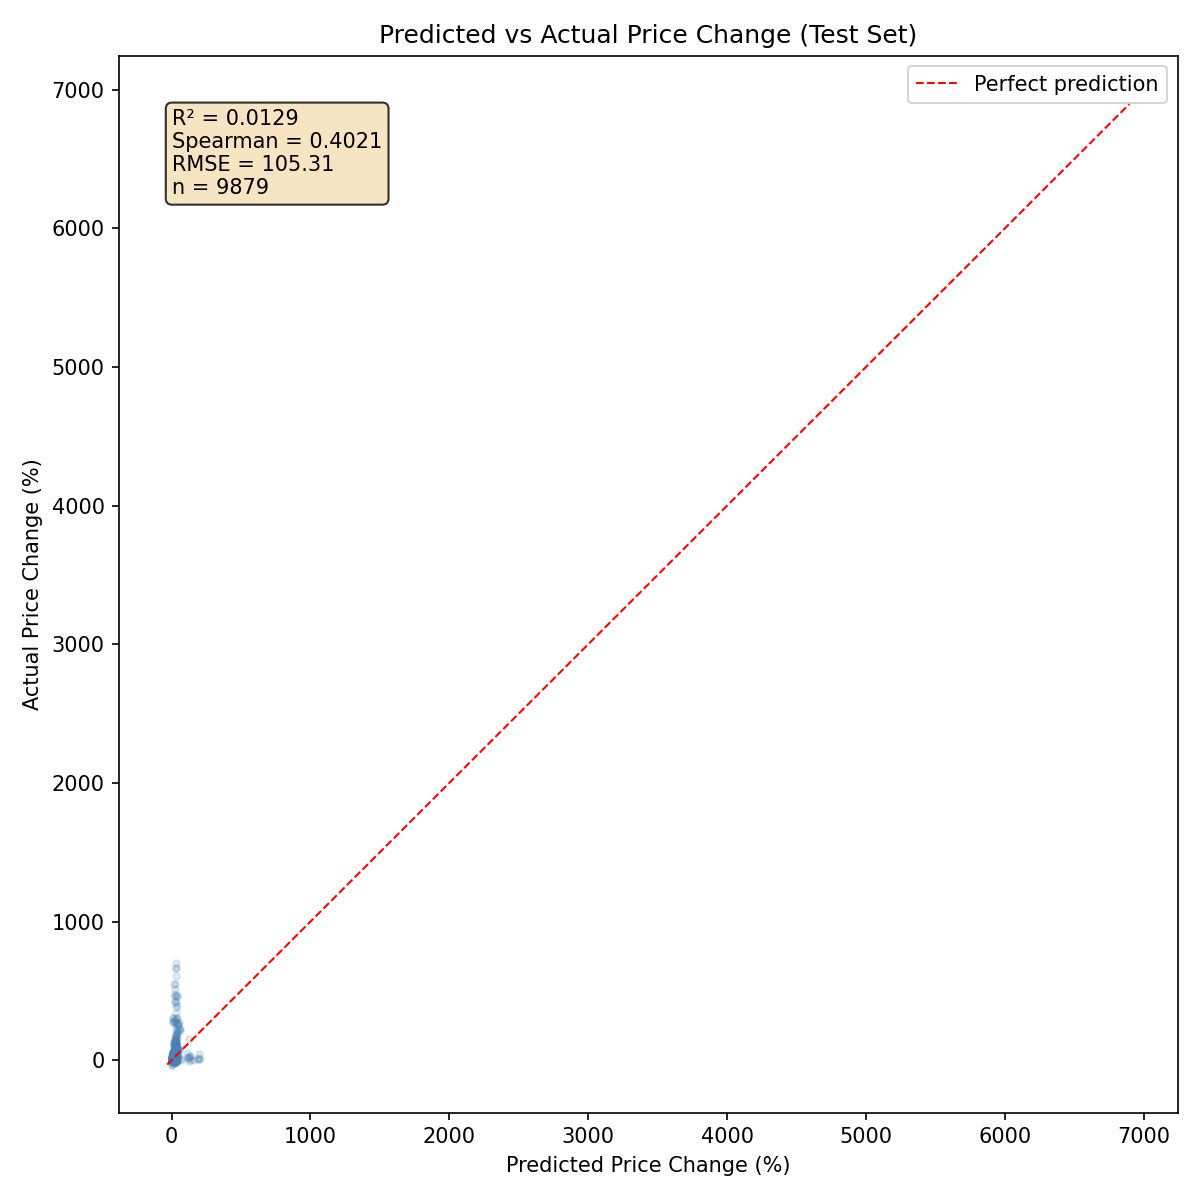
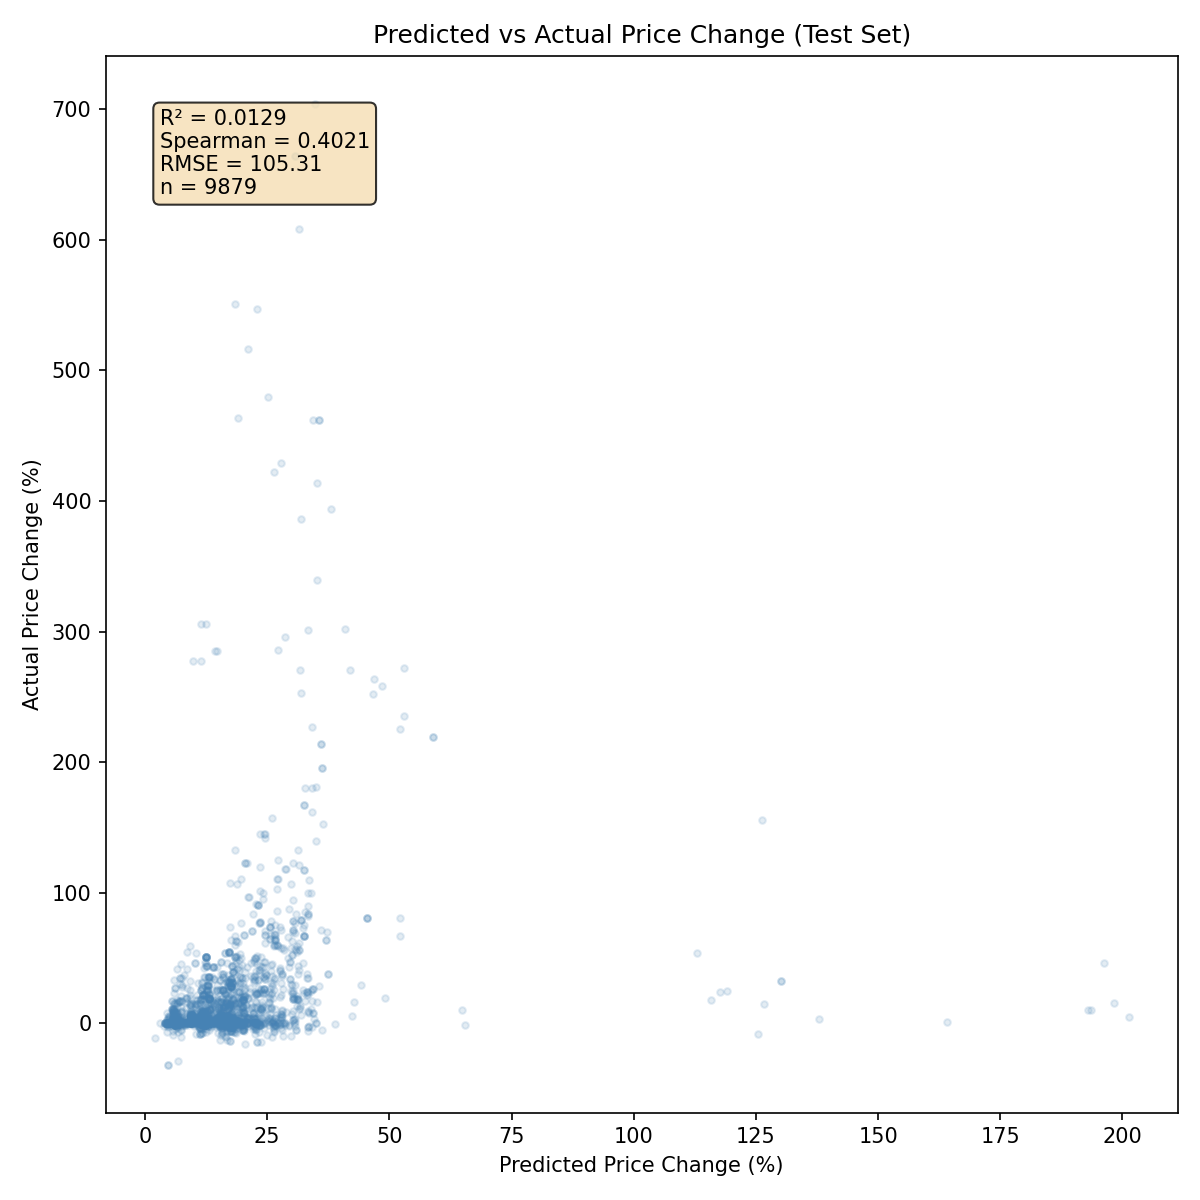
f

diff --git a/visualization/generate_eda_plots.py b/visualization/generate_eda_plots.py
@@ -80,34 +80,12 @@ def plot_price_trajectories() -> None:
 
         ax.plot(dates, prices, color='steelblue', linewidth=1.5)
 
-        # Get tournament dates for this card
-        cur.execute("""
-            SELECT DISTINCT t.event_date
-            FROM tournaments t
-            JOIN deck_profiles dp ON dp.tournament_id = t.id
-            JOIN LATERAL jsonb_array_elements_text(dp.main_deck::jsonb) AS card_id ON true
-            JOIN cards c ON c.id = card_id::int
-            WHERE c.name = %s AND t.format = 'TCG' AND t.player_count > 0
-            ORDER BY t.event_date
-        """, (card_name,))
-        tournament_dates = [r[0] for r in cur.fetchall()]
-
-        # Draw vertical lines for tournament appearances
-        for td in tournament_dates:
-            if dates[0] <= td <= dates[-1]:
-                ax.axvline(td, color='red', alpha=0.3, linewidth=0.8)
-
         # Label
         ax.set_title(f"{card_name} ({set_code}) - {description}")
         ax.set_ylabel("Market Price ($)")
         ax.xaxis.set_major_formatter(mdates.DateFormatter('%b %Y'))
         ax.xaxis.set_major_locator(mdates.MonthLocator(interval=2))
         plt.setp(ax.xaxis.get_majorticklabels(), rotation=45)
-
-        # Add legend for first plot only
-        if idx == 0:
-            ax.axvline(dates[0], color='red', alpha=0.3, linewidth=0.8, label='Tournament appearance')
-            ax.legend(loc='upper left')
 
     axes[-1].set_xlabel("Date")
     fig.tight_layout()

diff --git a/visualization/generate_plots.py b/visualization/generate_plots.py
@@ -55,10 +55,6 @@ def plot_predicted_vs_actual(report: dict) -> None:
     fig, ax = plt.subplots(figsize=(8, 8))
     ax.scatter(predicted, actual, alpha=0.15, s=10, c="steelblue")
 
-    line_min = pva["perfect_line"]["min"]
-    line_max = pva["perfect_line"]["max"]
-    ax.plot([line_min, line_max], [line_min, line_max], "r--", linewidth=1, label="Perfect prediction")
-
     ax.set_xlabel("Predicted Price Change (%)")
     ax.set_ylabel("Actual Price Change (%)")
     ax.set_title("Predicted vs Actual Price Change (Test Set)")
@@ -68,7 +64,6 @@ def plot_predicted_vs_actual(report: dict) -> None:
         transform=ax.transAxes, verticalalignment="top",
         fontsize=10, bbox=dict(boxstyle="round", facecolor="wheat", alpha=0.8),
     )
-    ax.legend()
     fig.tight_layout()
     fig.savefig(FIGURES_DIR / "predicted_vs_actual.png", dpi=150)
     plt.close(fig)

diff --git a/README.md b/README.md
@@ -63,7 +63,7 @@ In order to gather the necessary data from tournaments we will be using YGOProDe
 
 ### Price Trajectories Around Tournaments
 ![Price Trajectories](visualization/figures/price_trajectories.png)
-Daily prices for three cards with red lines at tournament dates, showing how different cards react to tournament appearances.
+Daily prices for three cards showing clear price spikes following tournament appearances. Mementoal Tecuhtlica went from $3.55 to $39.85 after March 2025 tournaments, Vanquish Soul Razen spiked from $3.62 to $29.10 in January 2026, and Secreterion Dragon climbed from $7.55 to $29.04.
 
 ### Target Distribution
 ![Target Distribution](visualization/figures/target_distribution.png)
